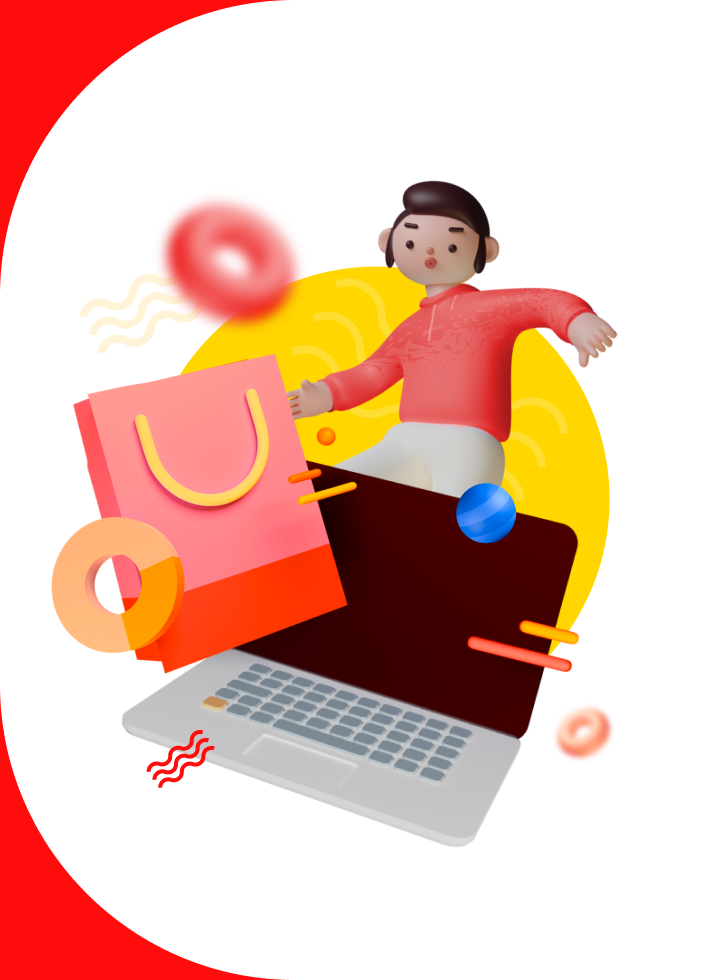
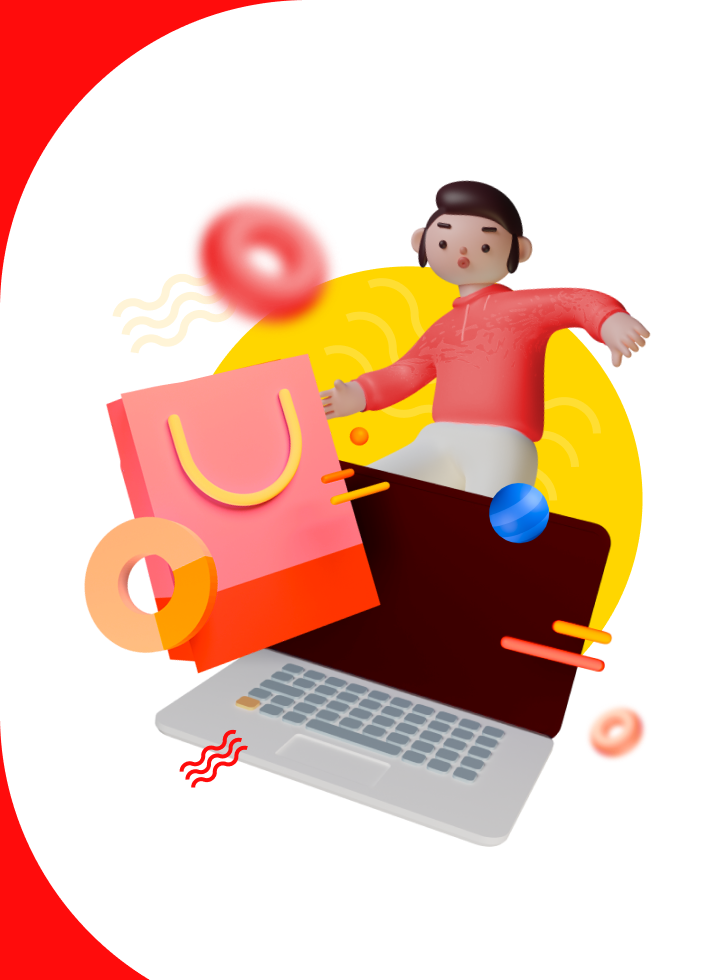
updated

diff --git a/index.html b/index.html
@@ -29,64 +29,38 @@
     <title>LOGIN REQUISTION APPLICATION</title>
   </head>
   <body>
-    <div class="">
-      <div class="row row-cols-2">
-        <div class="col">
-          <i class="fa-solid fa-arrow-right-from-bracket"></i>
-        </div>
-        <div class="col">
-          <div
-            id="carouselExampleControls"
-            class="carousel slide"
-            data-ride="carousel"
-          >
-            <div class="carousel-inner">
-              <div class="carousel-item active">
-                <img
-                  class="d-block w-100"
-                  src="img/background_login1.png"
-                  alt="First slide"
-                />
-              </div>
-              <div class="carousel-item">
-                <img
-                  class="d-block w-100"
-                  src="img/background_login2.png"
-                  alt="Second slide"
-                />
-              </div>
-              <div class="carousel-item">
-                <img
-                  class="d-block w-100"
-                  src="img/background_login3.png"
-                  alt="Third slide"
-                />
-              </div>
+    <div class="row row-cols-2">
+      <div class="col">
+        <p>asjdhaksdj</p>
+      </div>
+      <div class="col">
+        <div
+          id="carouselExampleControls"
+          class="carousel slide"
+          data-ride="carousel"
+        >
+          <div class="carousel-inner">
+            <div class="carousel-item active">
+              <img
+                class="d-block float-right image-1"
+                src="img/background_login3.png"
+                alt="First slide"
+              />
             </div>
-            <a
-              class="carousel-control-prev"
-              href="#carouselExampleControls"
-              role="button"
-              data-slide="prev"
-            >
-              <span
-                class="carousel-control-prev-icon"
-                aria-hidden="true"
-              ></span>
-              <span class="sr-only">Previous</span>
-            </a>
-            <a
-              class="carousel-control-next"
-              href="#carouselExampleControls"
-              role="button"
-              data-slide="next"
-            >
-              <span
-                class="carousel-control-next-icon"
-                aria-hidden="true"
-              ></span>
-              <span class="sr-only">Next</span>
-            </a>
+            <div class="carousel-item">
+              <img
+                class="d-block float-right image-1"
+                src="img/background_login2.png"
+                alt="Second slide"
+              />
+            </div>
+            <div class="carousel-item">
+              <img
+                class="d-block float-right image-1"
+                src="img/background_login3.png"
+                alt="Third slide"
+              />
+            </div>
           </div>
         </div>
       </div>

diff --git a/css/login.css b/css/login.css
@@ -2,6 +2,6 @@ body {
   background-color: #ff0c0c;
 }
 
-.carousel-item{
-    
+.image-1 {
+  height: 100%;
 }
